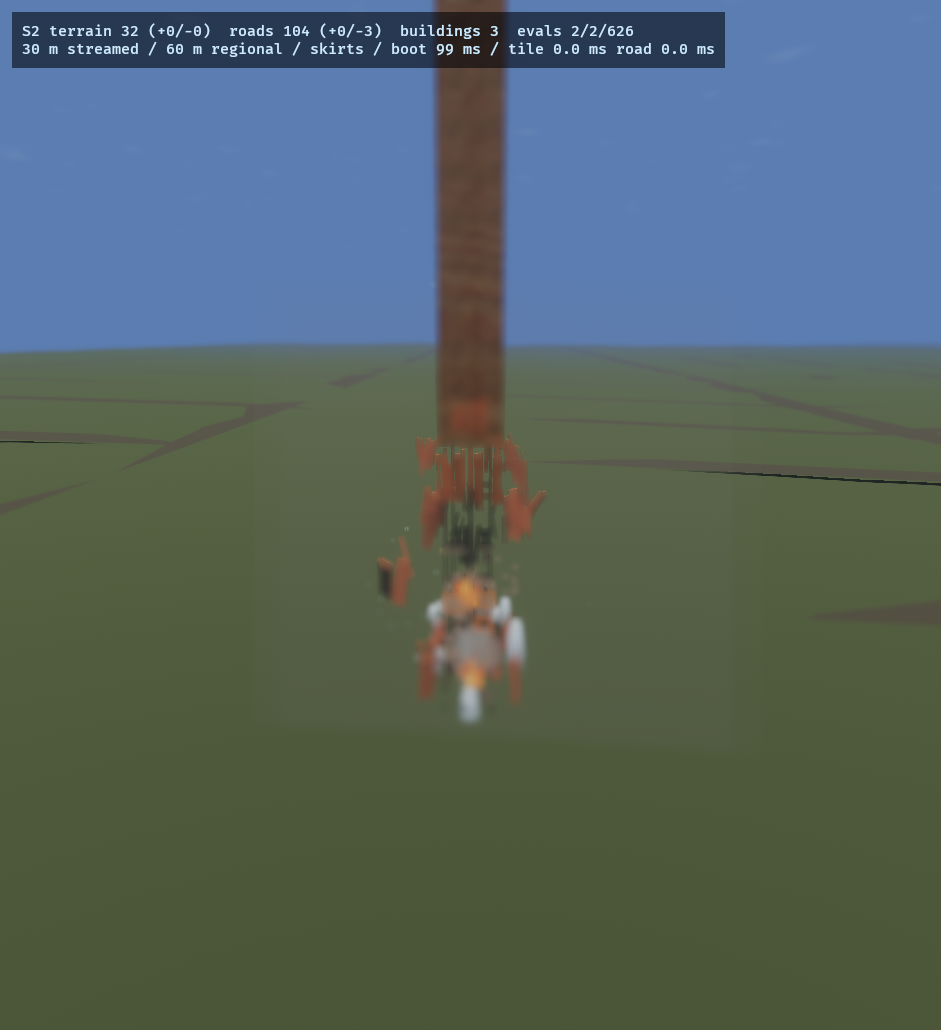
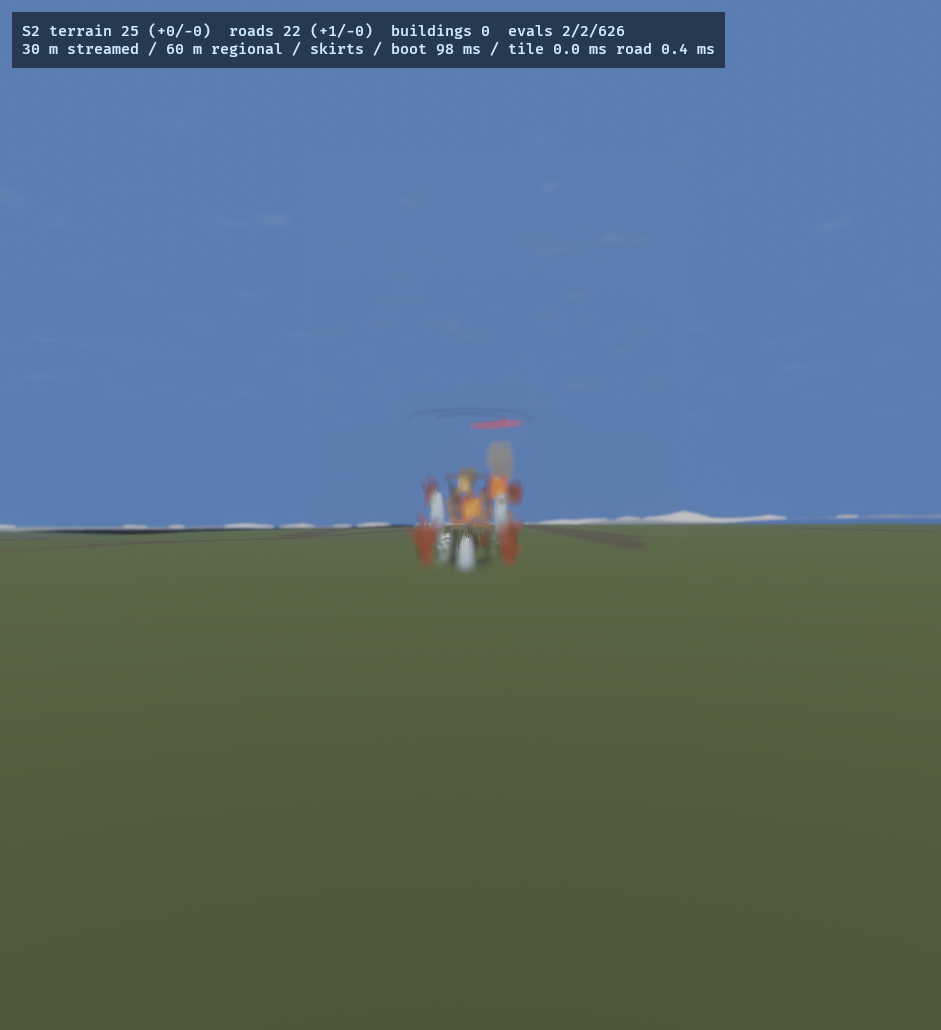
S3.3e: trio by printed id, derived camera
- S3_ID selects pack record id directly; spawn shell at terrain base, derive
  camera distance=max(2h,60), elevation=0.5h, aim=2/3h.
- Journal 10.02 (187064 steel), 10.44 (31156 timber), 10.03 (188252 masonry);
  full-frame + cropped debris captures.
- CodeGraph stale-check only. District grammar misalignment queued.

Changed region(s): [[0.0, 0.0, 1.0, 0.7146], [0.6164, 0.0, 0.678, 0.0311], [0.339, 0.0, 0.3698, 0.0311]]

diff --git a/viewer/src/geology.rs b/viewer/src/geology.rs
@@ -132,7 +132,7 @@ pub struct Geology {
     style: StylePack,
     pub building_chunks: HashMap<usize, Vec<Entity>>,
     pub box_material: Handle<StandardMaterial>,
-    pub targets: Vec<(u32, Vec3)>,
+    pub targets: Vec<(u32, Vec3, f32)>,
     pub loaded_buildings: usize,
     pub terrain_material: Handle<StandardMaterial>,
     pub water_material: Handle<StandardMaterial>,
@@ -1210,12 +1210,57 @@ fn s3_damage(world: &mut World) {
     }
     let elapsed = world.resource::<Time>().elapsed_secs();
     let targets = world.resource::<Geology>().targets.clone();
-    let target_limit = if std::env::var_os("S3_NODE").is_some() {
-        1
-    } else {
-        3
-    };
-    if elapsed >= 5.0 && targets.len() < target_limit {
+    let target_limit =
+        if std::env::var_os("S3_ID").is_some() || std::env::var_os("S3_NODE").is_some() {
+            1
+        } else {
+            3
+        };
+    if std::env::var_os("S3_ID").is_some() && targets.is_empty() && elapsed >= 4.0 {
+        if let Ok(raw) = std::env::var("S3_ID")
+            && let Ok(wanted_id) = raw.trim().parse::<u32>()
+        {
+            let mut found = None;
+            {
+                let state = world.resource::<Geology>();
+                for index in state.pack.neighborhoods() {
+                    let Ok(chunk) = state.pack.read_chunk(index) else {
+                        continue;
+                    };
+                    if let Some(building) = chunk.buildings.iter().find(|b| b.id == wanted_id) {
+                        let node = &state.pack.nodes[index];
+                        let city = state
+                            .pack
+                            .nodes
+                            .get(node.parent as usize)
+                            .map(|node| node.name.as_str())
+                            .unwrap_or("Seattle");
+                        if let Some(spec) = building_spec(&state.style, node, building, city) {
+                            let y =
+                                state.dem.height(building.centroid[0], building.centroid[1]) + 0.03;
+                            found = Some((
+                                building.id,
+                                spec,
+                                Vec3::new(building.centroid[0], y, building.centroid[1])
+                                    + Vec3::X * STREAM_WORLD_OFFSET,
+                                building.height_m,
+                            ));
+                        }
+                        break;
+                    }
+                }
+            }
+            if let Some((id, spec, origin, height)) = found {
+                spawn_building_world_lod(world, id, spec, origin, BuildingDetail::Shell);
+                world
+                    .resource_mut::<Geology>()
+                    .targets
+                    .push((id, origin, height));
+            }
+        }
+        return;
+    }
+    if std::env::var_os("S3_ID").is_none() && elapsed >= 5.0 && targets.len() < target_limit {
         let center = std::env::var("S3_CENTER")
             .ok()
             .and_then(|raw| {
@@ -1281,6 +1326,7 @@ fn s3_damage(world: &mut World) {
         done.since = since;
     }
     let target = targets[0];
+    let target_height = target.2;
     if let Some(record) = world
         .resource::<destructibles_bevy::building::Buildings>()
         .get(target.0)
@@ -1303,8 +1349,9 @@ fn s3_damage(world: &mut World) {
         .query_filtered::<&mut Transform, With<FlyCamera>>()
         .single_mut(world)
     {
-        camera.translation = target.1 + Vec3::new(0.0, 22.0, 48.0);
-        let look = target.1 + Vec3::Y * 12.0;
+        let distance = (target_height * 2.0).max(60.0);
+        camera.translation = target.1 + Vec3::new(0.0, target_height * 0.5, distance);
+        let look = target.1 + Vec3::Y * (target_height * 0.66);
         let d = (look - camera.translation).normalize_or_zero();
         camera.rotation = Quat::from_euler(EulerRot::YXZ, (-d.x).atan2(-d.z), d.y.asin(), 0.0);
     }
@@ -1511,6 +1558,9 @@ fn s3_buildings(world: &mut World) {
     if !s3_enabled() {
         return;
     }
+    if std::env::var_os("S3_ID").is_some() {
+        return;
+    }
     if std::env::var_os("S3_DAMAGE").is_some() && world.resource::<Geology>().targets.len() >= 3 {
         return;
     }
@@ -1617,10 +1667,11 @@ fn s3_buildings(world: &mut World) {
                 && spec_height >= min_height
                 && world.resource::<Geology>().targets.len() < 3
             {
-                world
-                    .resource_mut::<Geology>()
-                    .targets
-                    .push((id, Vec3::from_array(origin) + Vec3::X * STREAM_WORLD_OFFSET));
+                world.resource_mut::<Geology>().targets.push((
+                    id,
+                    Vec3::from_array(origin) + Vec3::X * STREAM_WORLD_OFFSET,
+                    spec_height,
+                ));
             }
         }
         let count = entities.len();
